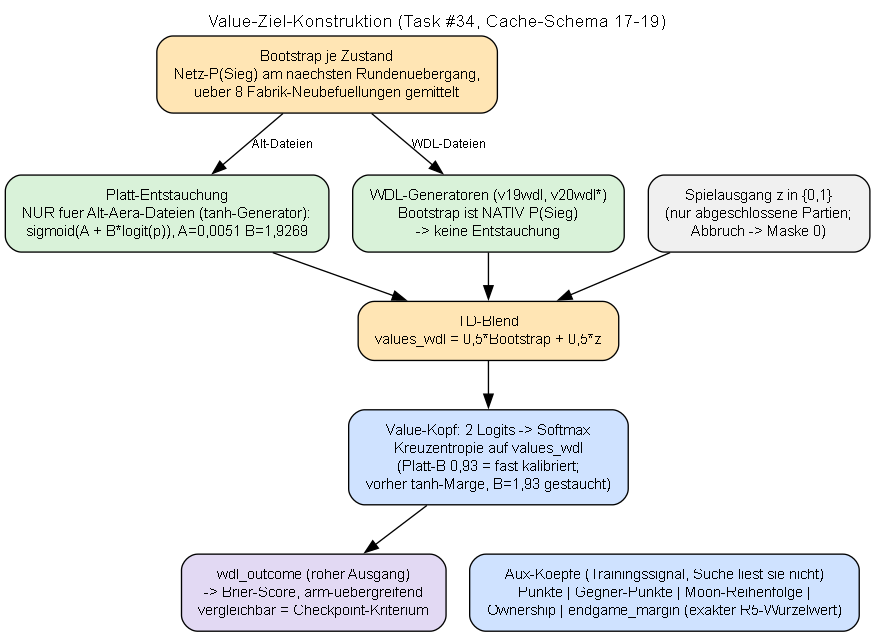
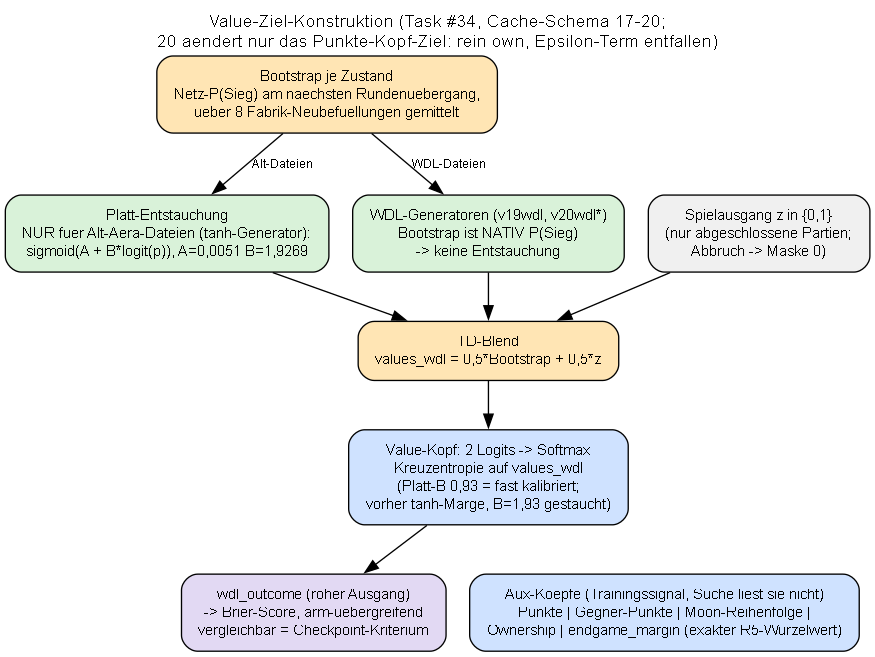
README + Diagramme auf den Stand nach Leiter-Reset und Aera-Wechsel
README: Elo 1215 auf der neu verankerten Leiter (mit Hinweis auf Archiv
und Fix-Grenze), Kampagnen-Absatz auf den Ist-Stand (Ownership-Verbraucher
geschlossen, Asym-Curriculum + Policy-Supervision offen), Schema 15/19 ->
20, Schwierigkeitsgrade zeigen dynamisch auf den Champion, Quick Reference
vom Legacy-Flachnetz auf Mosaic2DNet (2 Inputs / 8 ONNX-Outputs, am
Champion-Export verifiziert), tools-Tabelle um die aktuellen
Standard-Instrumente ergaenzt.

Diagramme: Kopfzeile (Elo/Leiter-Reset) und Schema-Beschriftung im
value_target nachgezogen (Schema 20 aendert nur das Punkte-Kopf-Ziel),
alle 5 Diagramme frisch als SVG+PNG gerendert (PNGs hinkten seit 08.08.
hinterher, window_generation hatte noch gar kein PNG).

Changed region(s): [[0.0, 0.0298, 1.0, 0.5965], [0.216, 0.6264, 0.9874, 1.0], [0.7097, 0.6562, 0.7406, 0.686]]

diff --git a/README.md b/README.md
@@ -23,23 +23,26 @@ dome-building board game with hidden information.
 
 ## Current Status
 
-Champion: **`v21_2d_brierbest`**, Elo **1358** (95% CI [1292, 1434]),
+Champion: **`v21_2d_brierbest`**, Elo **1215** (95% CI [1170, 1259]),
 anchored at Heuristic@150 (dyn. ~330 sims) = 1000 (`tools/elo_tracker.py
 report`) — the first champion produced by pure corpus scaling (same recipe,
-+40% window from a stronger generator). The value head predicts a win
++40% window from a stronger generator). The ladder was **re-anchored on
+2026-08-21**: a fix to the round-5 solver's move ordering changed every
+game with a round-5 share, so the old register (champion at 1358 on a
+longer ladder) moved to `archive/elo_history_pre_r5fix.csv` — Elo values
+are not comparable across that boundary. The value head predicts a win
 *probability* (WDL era, task #34); display probabilities are Platt-calibrated
 per champion.
 
-Current campaign: the **ownership/scoring-plate era**. The net plays the base
-game well but leaves scoring-plate points on the table, so a *teaching corpus*
-of 8,000 games was generated by rule-guided builder heuristics (columns,
-diagonals, corner pairs, specials — each validated in paired arena
-measurements), and an ownership-weight training sweep is selecting the dose
-at which the ownership head learns those geometries without degrading policy
-or value (`evaluations/PREREG_ownership_corpus.md`). Next: a head-quality
-gate, then an ownership *consumer* in the leaf evaluation with a runtime
-dial between the "pure net" and "plate-focused" play styles
-(`evaluations/PREREG_ownership_consumer.md`). Full history, all
+Current campaign: teaching the net to see **scoring plates**. The
+ownership *consumer* strand (an ownership head steering the search) was
+measured to exhaustion and closed — every variant came out neutral or
+negative in the paired arena. What remains open and is running now: an
+**asymmetric self-play curriculum** — exactly one side per game gets a
+rule-guided plate builder, so the value head sees plate building as a
+win signal for the first time
+(`evaluations/PREREG_asymmetric_curriculum.md`) — and oracle-derived
+**policy supervision** as the last untried strand. Full history, all
 measurements and the standing methodology rules:
 [`evaluations/STATUS.md`](evaluations/STATUS.md); rendered process diagrams:
 [`evaluations/diagrams.txt`](evaluations/diagrams.txt) (`game_flow`,
@@ -61,7 +64,7 @@ measurements and the standing methodology rules:
   ownership, and optionally `endgame_margin` (the exact round-5 minimax
   value as an auxiliary target). Aux heads are training signal only — the
   search never reads them.
-- **Value target**: `VALUE_SCHEMA_VERSION=19` — `values_wdl` is a TD blend
+- **Value target**: `VALUE_SCHEMA_VERSION=20` — `values_wdl` is a TD blend
   (`TD_LAMBDA=0.5`) of the bootstrap win probability at the next round
   transition and the actual game outcome. Bootstraps from pre-WDL
   generators are Platt-destretched first (A=0.0051, B=1.9269) so that old
@@ -216,15 +219,21 @@ tool (`tools/analyze_game_log.py`).
 | `model_info.py`                     | Shows metadata of a saved model checkpoint                                                                                        |
 | `offline_diagnosis.py`               | Value validation R² overall + per round, policy top-1/top-3, `--frozen` for cross-generation comparison                           |
 | `oracle_metrics.py`                 | Offline metrics of candidate networks against the oracle labels + rank correlation with Elo                                       |
-| `paired_arena_arm_worker.py`        | Single-arm worker for paired speed-bundle A/Bs (thin CLI wrapper around `net_arena_match`)                                        |
+| `paired_arena_arm_worker.py`        | Single-arm worker for paired A/Bs (thin CLI wrapper around `net_arena_match`)                                                     |
+| `paired_arena_env_ab.py`            | Generic paired A/B over runtime `MOSAIC_*` knobs (one worker process per arm, shared seeds, McNemar) — the standard instrument, also drives the Elo-ladder edges |
 | `paired_arena_ismcts.py`            | Paired A/B: single vs. multiple determinization (ISMCTS)                                                                          |
 | `paired_arena_round5.py`            | Paired A/B for the round-5 budget switch (time vs. node budget)                                                                   |
 | `paired_arena_shrink_ab.py`         | Paired A/B for the value shrinkage constant (orchestrator)                                                                        |
 | `paired_arena_shrink_arm_worker.py` | Single-arm worker for the value shrinkage A/B (network vs. network)                                                               |
 | `paired_arena_speedbundle.py`       | Paired A/B for the search speed bundle (inference batching, Gumbel depth fixes)                                                   |
 | `paired_gating.py`                  | Standard gating tool: paired seeds/swapped boards, SPRT (`p1=0.65`), sign test                                                    |
+| `platt_fit.py`                      | Fits the per-champion Platt calibration for displayed win probabilities                                                           |
+| `r5_value_calibration.py`           | Round-5 plate sensitivity of the value head (mandatory post-promotion diagnostic)                                                 |
 | `rtv_redundancy_report.py`          | Offline analysis: does `round_transition_value` still carry independent information over `bootstrap_value`?                       |
 | `selfplay_diversity_report.py`      | Opening/trajectory diversity in the self-play corpus (collapse check)                                                             |
+| `set_champion.py`                   | Sets `models/champion.txt` — the server default for human games                                                                   |
+| `t36_curve_eval.py`                 | Brier score on a frozen legacy measurement set (cross-generation comparison)                                                      |
+| `probes/` (26 scripts)              | Focused one-question measurement probes, each tied to a `PREREG_*.md`                                                             |
 
 ---
 
@@ -235,7 +244,9 @@ python server.py
 # http://localhost:5000
 ```
 
-Difficulty levels up to `expert` = `v16_best`@400 sims (`server.py`'s
+Difficulty levels: `easy` plays the heuristic; `medium`/`hard`/`expert`
+all point dynamically at the reigning champion from `models/champion.txt`
+and differ only in simulation count (60/150/400 — `server.py`'s
 `DIFFICULTY_PRESETS`). The AI debugger (`/debug`) shows a value-head
 breakdown (raw value, points forecast, win %, blended utility, floor shift)
 as well as a granular Gumbel trace (top-m candidates, Sequential Halving
@@ -261,19 +272,27 @@ itself).
 
 ## Architecture (Quick Reference)
 
-### Neural Network (`MosaicNet`, `engine/py/neural_net.py`)
+### Neural Network (`Mosaic2DNet`, `engine/py/neural_net.py`)
 
 ```
-Input (708) → Linear(512) → BN → ReLU
-           → Linear(512) → BN → ReLU
-           → Linear(512) → ReLU
-           ┌→ Policy Head:     Linear(256) → ReLU → Linear(406)   — action logits
-           ├→ Value Head:      Linear(64)  → ReLU → Linear(1) → Tanh
-           ├→ Moon-Order Head: Linear(32)  → ReLU → Linear(5)     — Plackett-Luce scores
-           └→ Points Head:     Linear(64)  → ReLU → Linear(1) → Tanh  — score forecast (aux)
+planes (76×6×6) → [Conv3×3(48) → BN → ReLU] ×2 → flatten ─┐
+state  (708)    → Linear(512) → BN → ReLU ────────────────┴→ concat
+    → Fusion: Linear(512) → BN → ReLU → Linear(512) → ReLU
+       ┌→ Policy Head:      Linear(256) → ReLU → Linear(406)  — action logits
+       ├→ Value Head (WDL): Linear(64)  → ReLU → Linear(2)    — logits → P(win)
+       ├→ Moon-Order Head:  Linear(32)  → ReLU → Linear(5)    — Plackett-Luce scores
+       ├→ Points Heads:     own + opponent score forecast (aux, Tanh)
+       ├→ Ownership Head:   Linear(128) → ReLU → Linear(72)   — 2×36 fields (aux)
+       └→ Endgame Head:     round-5 minimax margin (aux, Tanh)
 ```
 
-The ONNX export carries exactly these 4 output tensors.
+The champion ONNX export (`alphazero_v21_2d_brierbest.onnx`, verified)
+carries two inputs (`planes`, `state`) and eight outputs (`policy`,
+`value`, `moon`, `points`, `ownership`, `value_wdl_logits`, `opp_points`,
+`endgame_margin`). Aux heads are training signal only — the search reads
+none of them. The legacy flat `MosaicNet` (708 → 3×512 trunk, Tanh value)
+remains loadable: the input layout is detected from the model file
+(`detect_layout`, `engine/src/net.rs`), never assumed.
 
 ### State Tensor (708 Features)
 
@@ -307,7 +326,7 @@ information as masks/shares.
 | `NUM_ACTIONS`                  | 406   | `config.py`               | Size of the action space                                    |
 | `HIDDEN_SIZE`                  | 512   | `config.py`               | Neurons per hidden layer                                    |
 | `TD_LAMBDA`                    | 0.5   | `engine/py/neural_net.py` | TD-bootstrap blend in the value target                      |
-| `VALUE_SCHEMA_VERSION`         | 15    | `engine/py/neural_net.py` | Value-target formula version (cache invalidation on change) |
+| `VALUE_SCHEMA_VERSION`         | 20    | `engine/py/neural_net.py` | Value-target formula version (cache invalidation on change) |
 | `USE_GUMBEL_SEARCH`            | true  | `engine/src/net_mcts.rs`  | Gumbel search (false = legacy PUCT)                         |
 | `GUMBEL_TOP_M`                 | 16    | `engine/src/net_mcts.rs`  | Root candidates for Sequential Halving                      |
 | `FLOOR_SHAPING_WEIGHT`         | 0.3   | `engine/src/net_mcts.rs`  | Exact floor-penalty leaf-value additive (validated)         |
